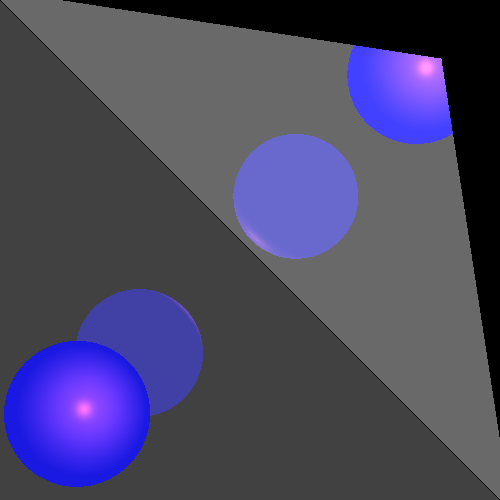
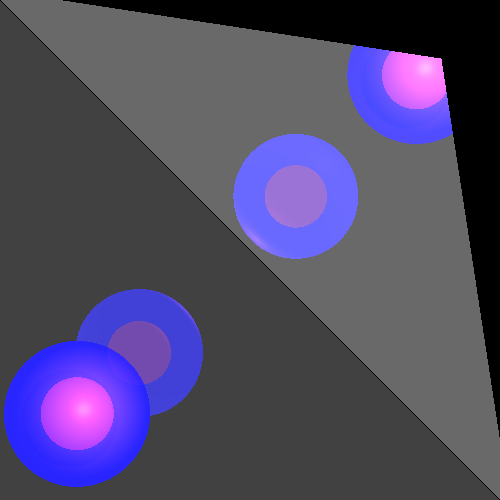
i think its OK

Changed region(s): [[0.0, 0.57, 0.42, 0.99], [0.45, 0.27, 0.72, 0.54], [0.75, 0.09, 0.9, 0.24]]

diff --git a/src/renderer/RayTracerBasic.java b/src/renderer/RayTracerBasic.java
@@ -74,7 +74,7 @@ public class RayTracerBasic extends RayTracerBase {
 
 	/**
 	 * Calculates the color at a given point according to local effects
-	 * @param gp
+	  * @param gp
 	 * @param ray
 	 * @param k
 	 * @return
@@ -106,6 +106,9 @@ public class RayTracerBasic extends RayTracerBase {
 
 	}
 
+
+
+
 	/**
 	 * Calculate Specular component of light reflection.
 	 * @return specular light color
@@ -118,6 +121,7 @@ public class RayTracerBasic extends RayTracerBase {
 		return ip.scale(ks * Math.pow(factor, nShininess));
 
 	}
+
 	/**
 	 * Calculate Diffusive component of light reflection.
 	 * @return diffusive component of light reflection
@@ -130,19 +134,21 @@ public class RayTracerBasic extends RayTracerBase {
 	}
 
 
-
 	private Color calcGlobalEffects(GeoPoint intersection, Ray ray, int level, Double k) {
 		Color color = Color.BLACK;
 		Vector n = intersection.geometry.getNormal(intersection.point);
 		Material material = intersection.geometry.getMaterial();
 		double kkr = k* material.Kr.getD1() ;
 		if (kkr > MIN_CALC_COLOR_K)
-			color = calcGlobalEffect(constructReflectedRay(intersection.point, ray.getDir(), n), level, material.Kr.getD1(), kkr);
+			color = calcGlobalEffect(constructReflectedRay(intersection.point, ray, n), level, material.Kr.getD1(), kkr);
 		double kkt = k * material.Kt.getD1();
 		if (kkt > MIN_CALC_COLOR_K)
-			color = color.add(calcGlobalEffect(constructRefractedRay(intersection.point, ray, n), level, material.Kr.getD1(), kkt));
+			color = color.add(calcGlobalEffect(constructRefractedRay(intersection.point, ray, n), level, material.Kt.getD1(), kkt));
 		return color;
 	}
+
+
+
 
 
 	private Color calcGlobalEffect(Ray ray, int level, double kx, double kkx)
@@ -152,9 +158,12 @@ public class RayTracerBasic extends RayTracerBase {
 	}
 
 
-	private Ray constructReflectedRay(Point point, Vector v, Vector n) {
-		Vector r=v.subtract(n.scale(2*v.dotProduct(n)));
+
+	private Ray constructReflectedRay(Point point, Ray v, Vector n)
+	{
+		Vector r= v.getDir().subtract((n.scale(v.getDir().dotProduct(n)).scale(2))).normalize();
 		return new Ray(point,r,n);
+
 	}
 
 	private Ray constructRefractedRay(Point point, Ray v, Vector n)
@@ -162,26 +171,6 @@ public class RayTracerBasic extends RayTracerBase {
 		return new Ray(point, v.getDir(), n);
 	}
 
-
-
-
-/*
-	private Double3 calcTranperancy(Material mat){
-
-	}*/
-
-	/**
-	 * constructing a reflected ray r=v-2*(v*n)*n
-	 * @param point
-	 * @param v
-	 * @param n
-	 * @return
-	 */
-	private Ray calcReflection(Point point, Vector v, Vector n){
-
-		Vector r=v.subtract(n.scale(2*v.dotProduct(n)));
-		return new Ray(point,r);
-	}
 
 	/**
 	 * @param mat to get the kd diffusive component
@@ -253,17 +242,15 @@ public class RayTracerBasic extends RayTracerBase {
 		for (GeoPoint intersection : intersections) {
 			//if there are points in the intersections list that are closer to the point we check
 			if (lightSource.getDistance(gp.point) >= intersection.point.distance(gp.point)) {
-				//??ktr  = intersection.geometry.getMaterial().Kt.scale(ktr);/// multiplies with the geometry's transparency
+					ktr*=intersection.geometry.getMaterial().Kt.getD1();/// multiplies with the geometry's transparency
 				if (ktr < MIN_CALC_COLOR_K)// if the transparency is smaller than the min calc color
 					return 0.0;
 			}
 		}
 		return ktr;
 
-
-
-
 	}
+
 
 	private GeoPoint findClosestIntersection(Ray ray) {
 		GeoPoint closest = null;// so far the closest point is unknown
@@ -286,6 +273,8 @@ public class RayTracerBasic extends RayTracerBase {
 		}
 		return closest;
 	}
+
+
 
 
 }

diff --git a/src/primitives/Material.java b/src/primitives/Material.java
@@ -3,8 +3,8 @@ package primitives;
 public class Material {
 
 
-	public Double3 Kd= new Double3(0.0) ;
-	public Double3 Ks = new Double3(0.0) ;
+	public Double3 Kd= new Double3(0.0) ;//diffuse התפשתות
+	public Double3 Ks = new Double3(0.0) ;//specular
 	public Double3 Kt= new Double3(0.0) ;//Transparency שקיפות
 	public Double3 Kr = new Double3(0.0) ;//reflection השתקפות
 
@@ -95,6 +95,23 @@ public class Material {
 		return this;
 	}
 
+	public int getnShininess() {
+		return nShininess;
+	}
 
+	public Double3 getKd() {
+		return Kd;
+	}
 
+	public Double3 getKs() {
+		return Ks;
+	}
+
+	public Double3 getKt() {
+		return Kt;
+	}
+
+	public Double3 getKr() {
+		return Kr;
+	}
 }

diff --git a/src/primitives/Ray.java b/src/primitives/Ray.java
@@ -20,7 +20,12 @@ public class Ray {
 		this.dir = vec.normalize();
 	}
 
-
+	/**
+	 * constractor that calculates new ray with a delta
+	 * @param point
+	 * @param lightDirection
+	 * @param n
+	 */
 	public Ray(Point point, Vector lightDirection, Vector n) {
 		Vector delta = n.scale(n.dotProduct(lightDirection) > 0 ? DELTA : - DELTA);
 		p0= point.add(delta);
